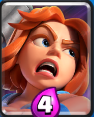
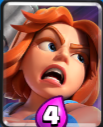
changed all assets and coordinates for fullscreen for more consistence

diff --git a/src/template_matcher.py b/src/template_matcher.py
@@ -15,7 +15,7 @@ class DeckMatcher:
         cv.setNumThreads(1)  # Avoid oversubscription with ThreadPoolExecutor
         
         # Pre-allocate slot mapping ranges for faster slot detection
-        self.slot_ranges = [(0, 40), (40, 80), (80, 120), (120, 160)]
+        self.slot_ranges = [(0, 55), (55, 110), (110, 165), (165, 220)]
 
     def load_templates(self):
         templates = []
@@ -26,13 +26,13 @@ class DeckMatcher:
         return templates
     def _fast_which_slot(self, x):
         """Optimized slot detection without function call overhead"""
-        if x < 40:
+        if x < 55:
             return 1
-        elif x < 80:
+        elif x < 110:
             return 2
-        elif x < 120:
+        elif x < 165:
             return 3
-        elif x < 160:
+        elif x < 220:
             return 4
         return None
 
@@ -61,7 +61,6 @@ class DeckMatcher:
         # Dictionary to hold detected cards in slots
         detected_slots = {1: None, 2: None, 3: None, 4: None}
         threshold = 0.8
-        
         # Time template matching
         matching_start = time.perf_counter()
         futures = [
@@ -107,10 +106,10 @@ class DeckMatcher:
 
 
 def crop(frame):
-    CROP_LEFT = 783
-    CROP_RIGHT = 720
-    CROP_TOP=845
-    CROP_BOT=46
+    CROP_LEFT = 788
+    CROP_RIGHT = 675
+    CROP_TOP=893
+    CROP_BOT=50
     height, width = frame.shape[:2]
         # Validate crop coordinates
     if CROP_TOP >= height - CROP_BOT:
@@ -122,5 +121,5 @@ def crop(frame):
     
     cropped_image = frame[CROP_TOP:height-CROP_BOT, CROP_LEFT:width-CROP_RIGHT]
     
-
+    cv.imwrite("cropped.png", cropped_image)
     return cropped_image
